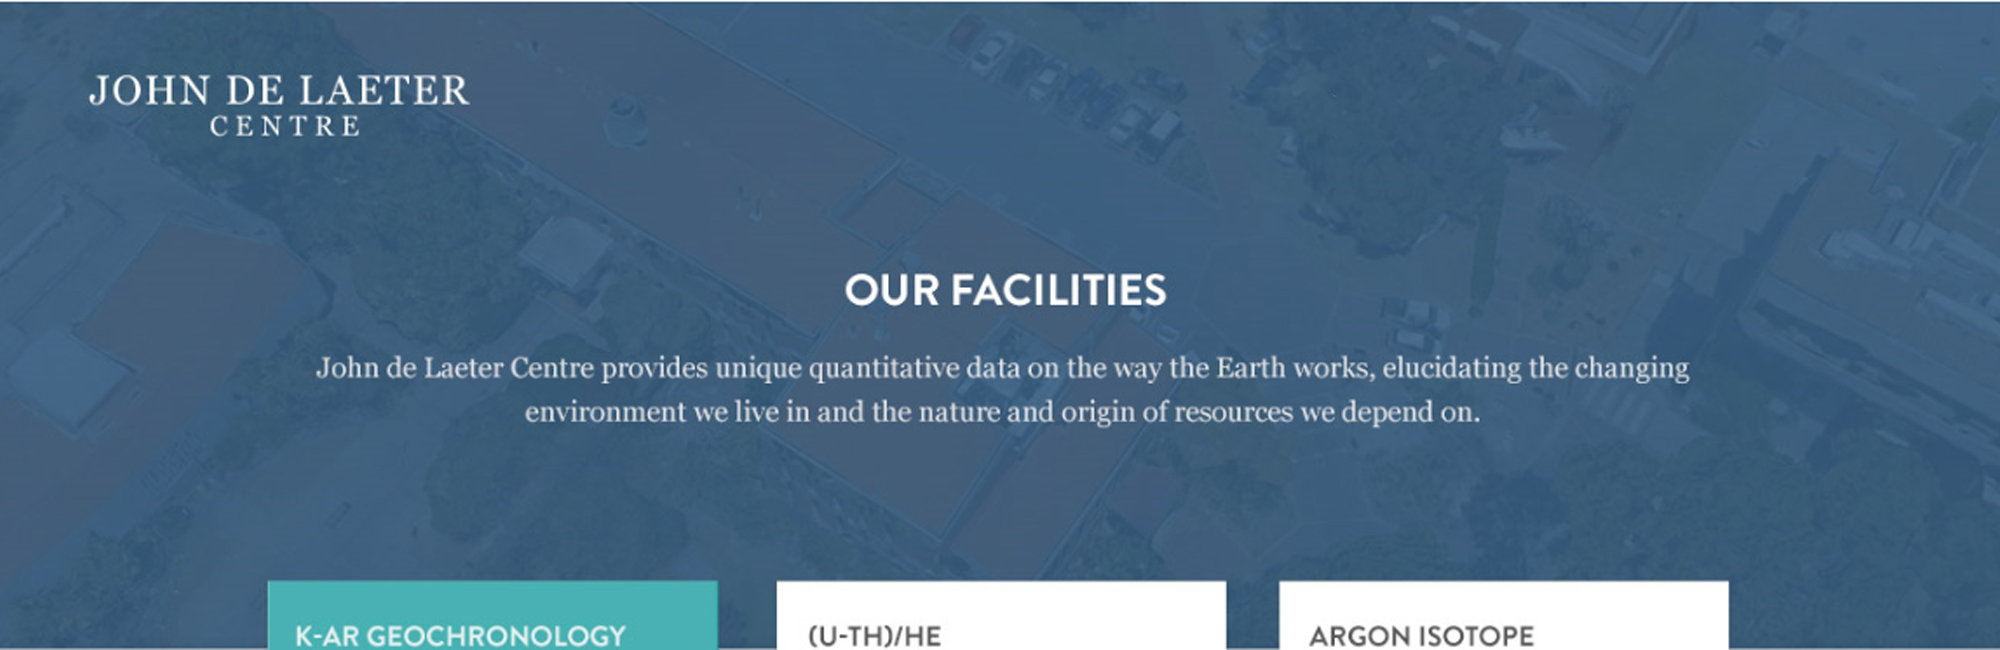
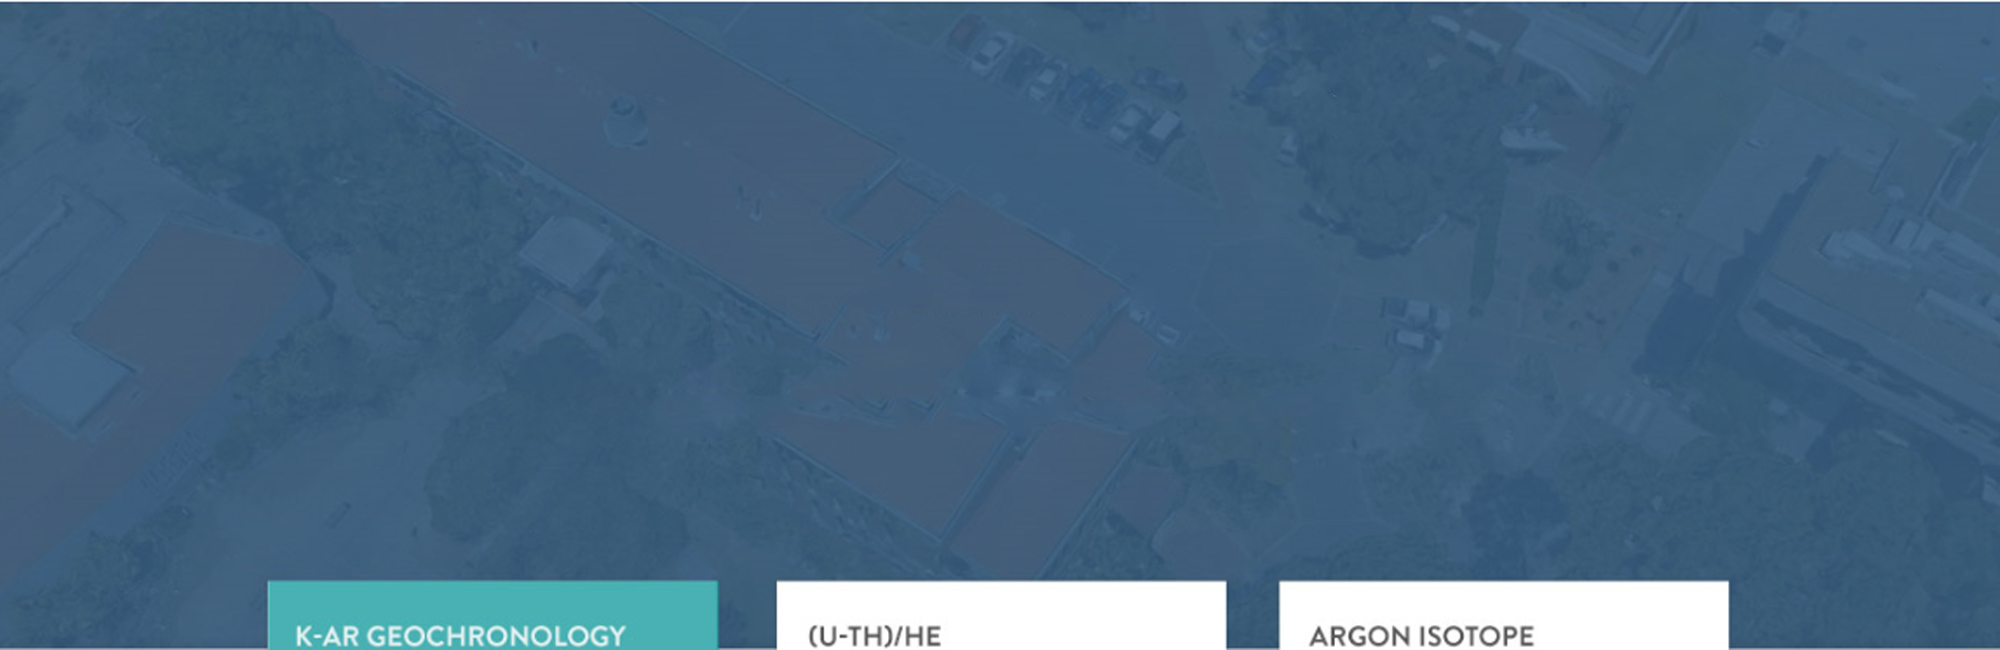
add home

diff --git a/wp-content/themes/twentytwelve/css/main.css b/wp-content/themes/twentytwelve/css/main.css
@@ -197,7 +197,7 @@ header nav .login_btn:hover{
 
 .hero{
     width: 100%;
-    height: 800px;
+    height: 650px;
     position: relative;
     background: url('../img/hero.jpg') no-repeat bottom center;
     background-size: cover;

diff --git a/wp-content/themes/twentytwelve/home.php b/wp-content/themes/twentytwelve/home.php
@@ -30,8 +30,8 @@
 		</header><!--  end header section  -->
 
 			<section class="caption">
-				<h2 class="caption">Find You Dream Home</h2>
-				<h3 class="properties">Appartements - Houses - Mansions</h3>
+				<h2 class="caption">Our Facilities</h2>
+				<h3 class="properties">John de Laeter Centre provides unique quantitative data on the way the Earth works, elucidating the changing environment we live in and the nature and origin of resources we depend on.</h3>
 			</section>
 	</section><!--  end hero section  --> 
 
